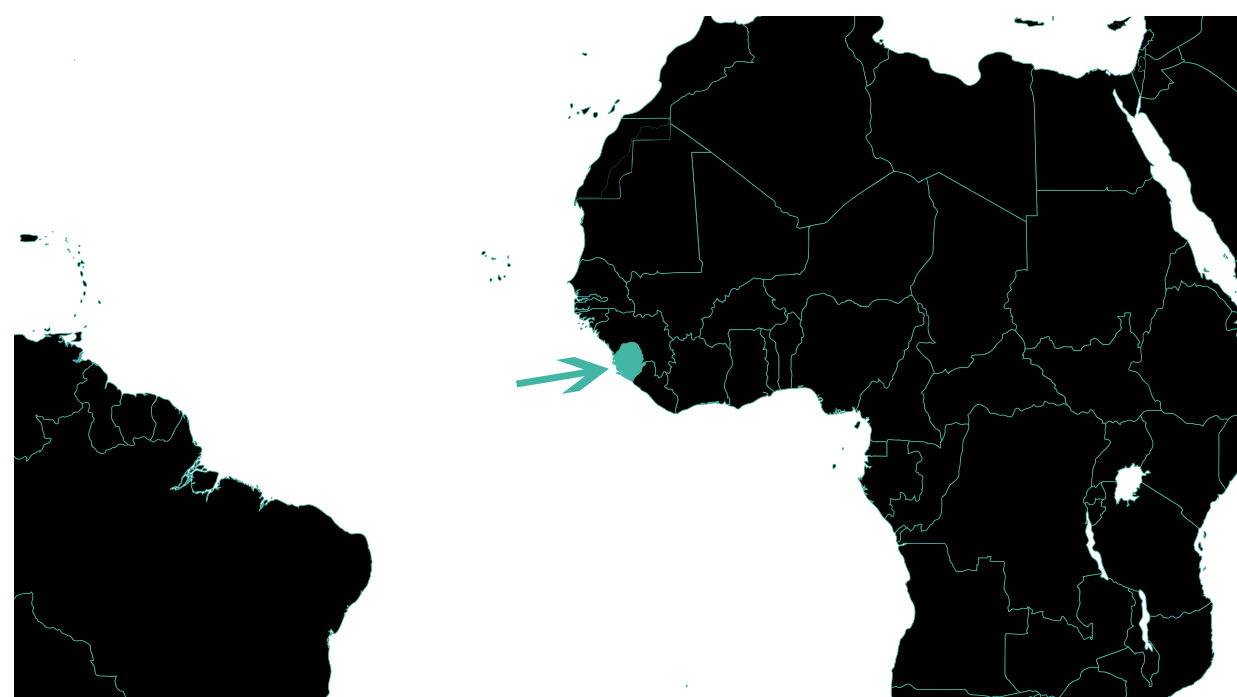
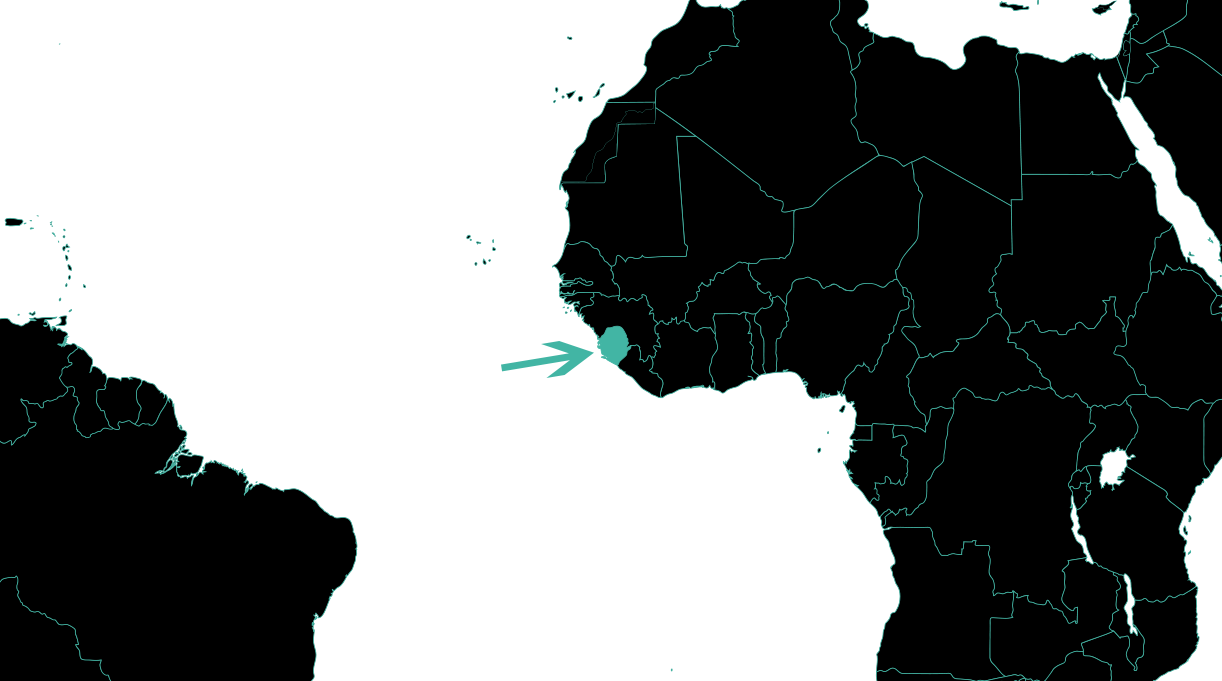
fix images with oevrflow, fix missing img, fix shake on wrong answer not working with more then 2 words, fix enter tile cant be removed

diff --git a/lib/pages/play/levels/guess_page.dart b/lib/pages/play/levels/guess_page.dart
@@ -140,15 +140,16 @@ class _GuessPageState extends State<GuessPage> {
       Get.find<SoundController>().completeSound();
       Get.find<LevelController>().guessed(Get.arguments[0], country);
     } else {
-      bool done = false;
+      bool done = true;
       for (int i = 0; i < lettersListAnswer.length; i++) {
-        if (!lettersListAnswer[i].contains('')) {
+        if (!lettersListAnswer[i].contains('') && done) {
           done = true;
         } else {
           done = false;
         }
       }
       if (done) {
+        done = false;
         shakeTile = true;
         Get.find<SoundController>().wrongSound();
         Duration(milliseconds: 500).delay(() {
@@ -351,7 +352,7 @@ class _GuessPageState extends State<GuessPage> {
   void removeLetter(String letter, int index, int wordIndex) {
     bool isDone = false;
 
-    if (letter != '-') {
+    if (letter != '-' && letter != String.fromCharCode(8626)) {
       for (int i = 0; i < allLetters.length; i++) {
         setState(() {
           if (allLetters[i] == '') {
@@ -638,7 +639,7 @@ class _GuessPageState extends State<GuessPage> {
                                             Dimensions.radius15),
                                         child: Image.asset(
                                           'assets/image/${Get.arguments[0].toString().toLowerCase()}/${countryCodeImg.toLowerCase()}.png',
-                                          fit: BoxFit.contain,
+                                          fit: BoxFit.cover,
                                         ),
                                       ),
                                     ),
